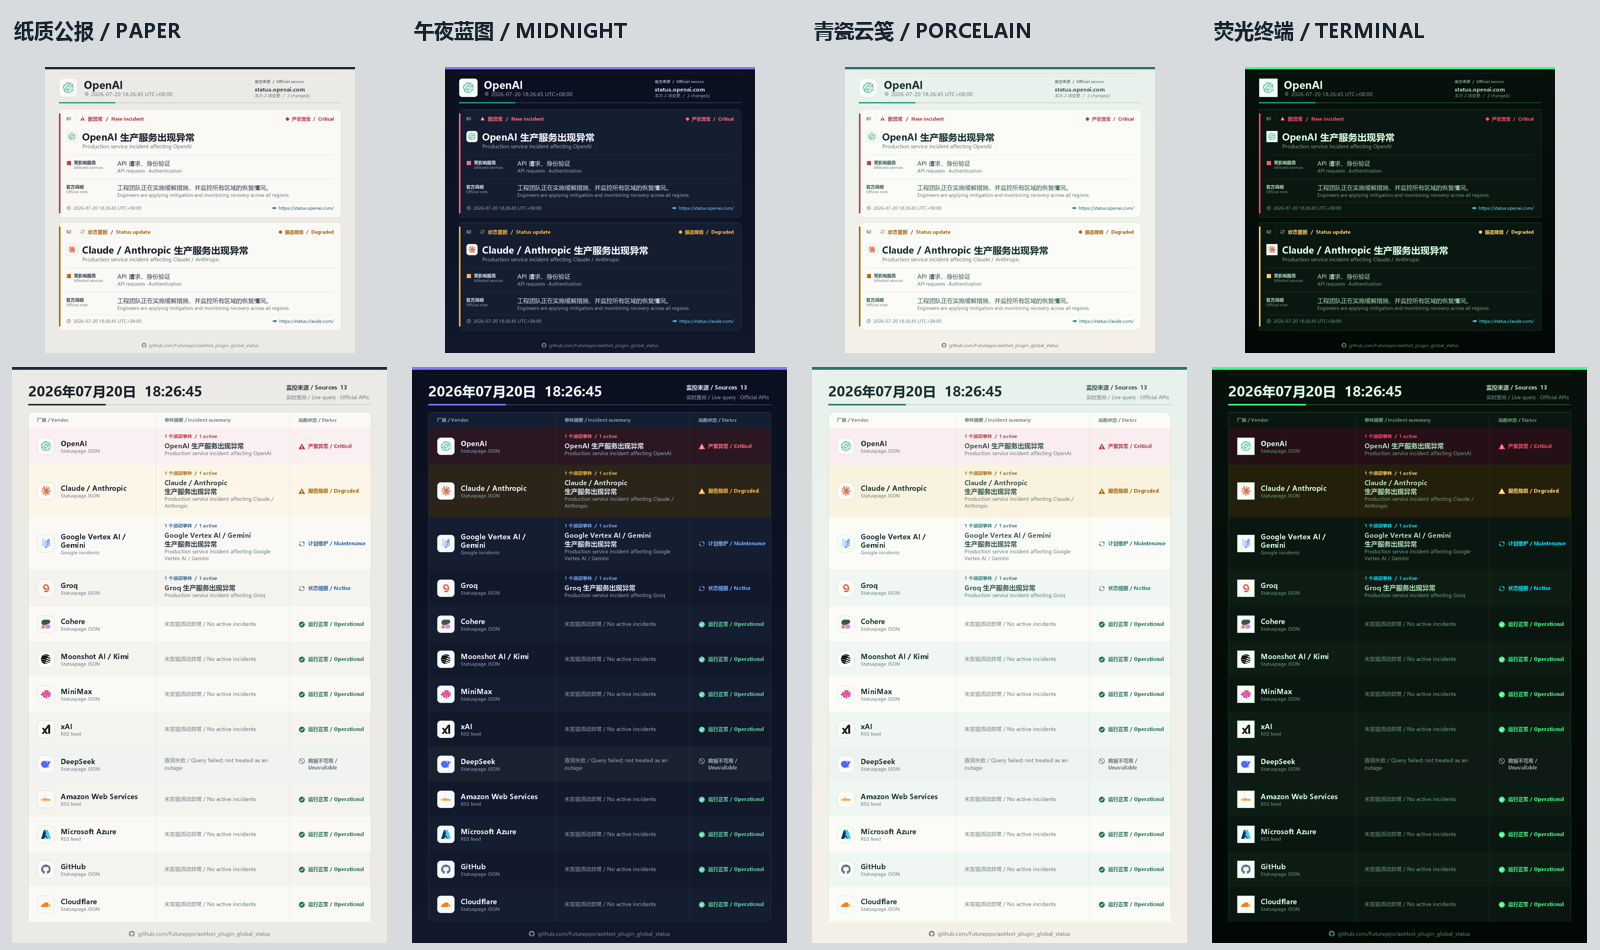
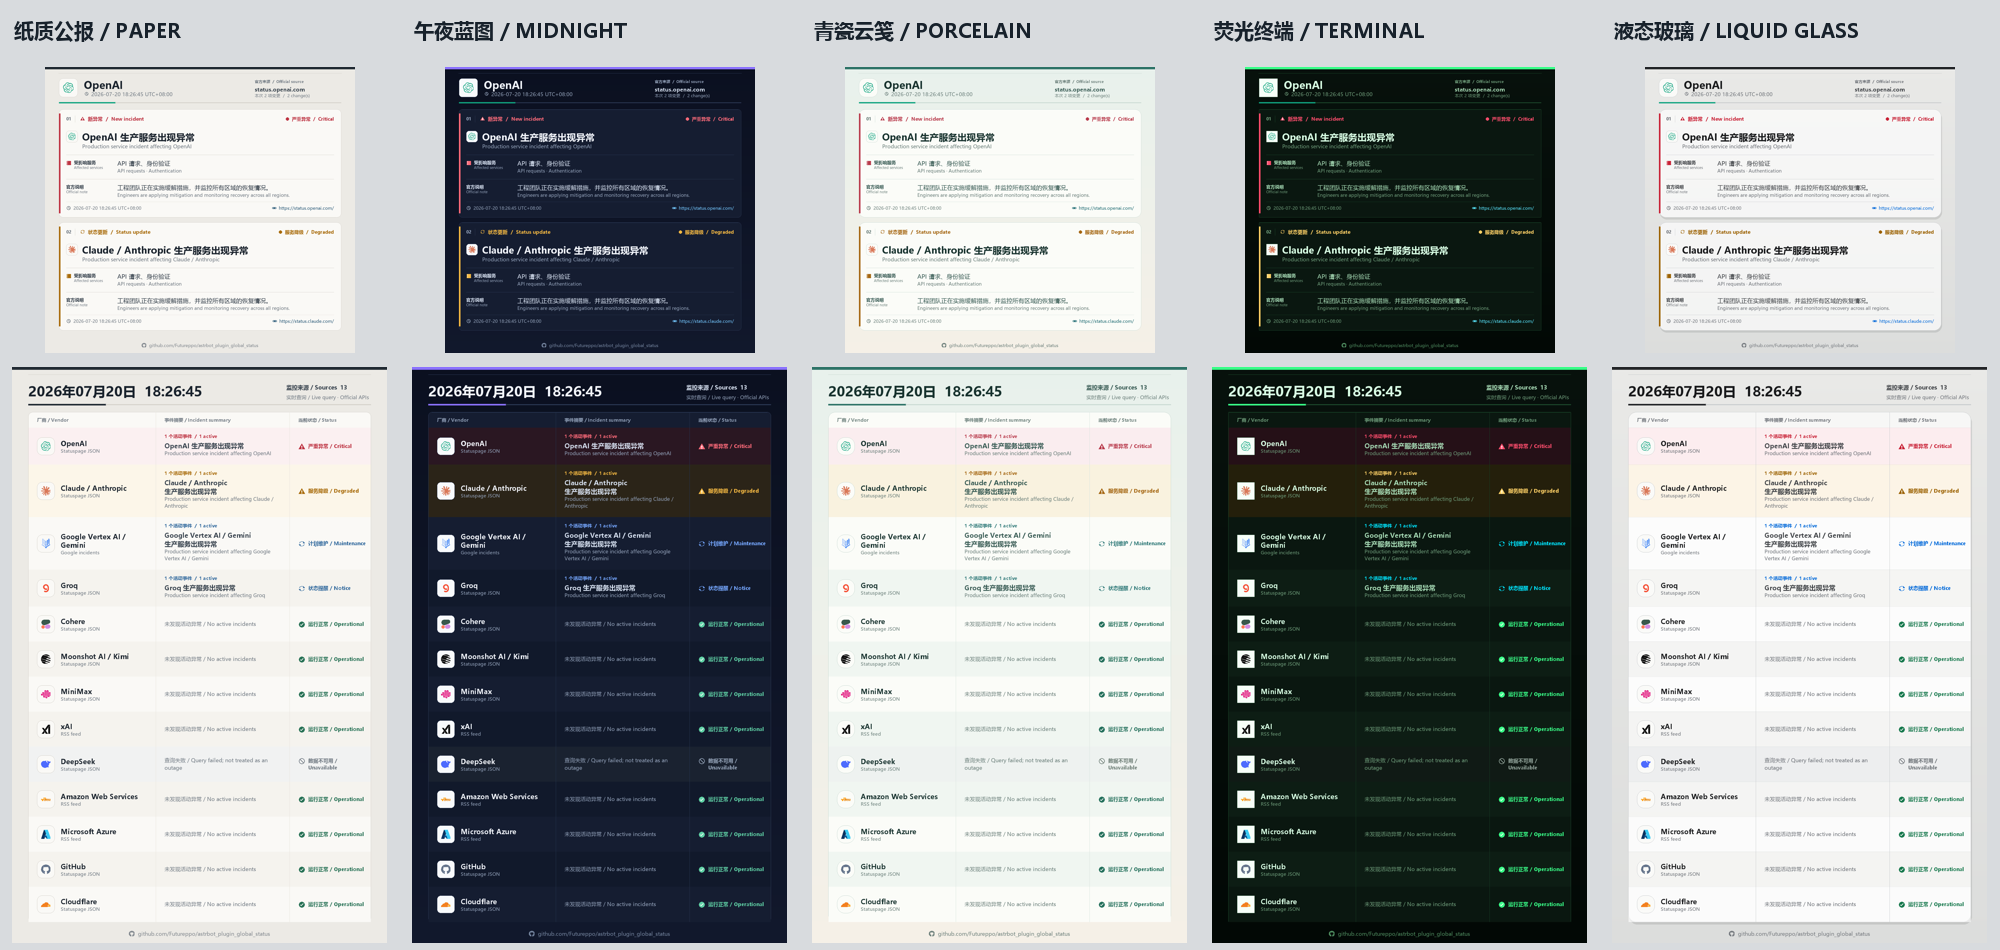
feat: 添加液态玻璃主题，更新主题对比和配置

diff --git a/renderer.py b/renderer.py
@@ -50,6 +50,7 @@ class CardTheme:
     panel_radius: int
     badge_radius: int
     table_radius: int
+    liquid_glass: bool = False
 
 
 CARD_THEMES: dict[str, CardTheme] = {
@@ -172,6 +173,37 @@ CARD_THEMES: dict[str, CardTheme] = {
         panel_radius=2,
         badge_radius=2,
         table_radius=2,
+    ),
+    "liquid_glass": CardTheme(
+        background_top="#E9E9E7",
+        background_bottom="#DCDDDC",
+        surface="#FFFFFFA6",
+        surface_alt="#F4F4F28C",
+        icon_surface="#FAFAF8",
+        text="#18191B",
+        text_soft="#3F4246",
+        muted="#70747A",
+        border="#C8CBCD",
+        panel_highlight="#FFFFFF",
+        chrome="#242629",
+        divider="#C9CCCE",
+        link="#0068D9",
+        footer="#777B80",
+        critical_surface="#FFE8EBA6",
+        warning_surface="#FFF3DDA6",
+        unavailable_surface="#E9EBECA6",
+        severity_colors={
+            "critical": "#C82035",
+            "warning": "#9B6100",
+            "maintenance": "#0068D9",
+            "info": "#0068D9",
+            "operational": "#18794E",
+            "unavailable": "#6F7479",
+        },
+        panel_radius=28,
+        badge_radius=22,
+        table_radius=26,
+        liquid_glass=True,
     ),
 }
 
@@ -849,6 +881,27 @@ def _new_canvas(height: int, theme: CardTheme) -> Image.Image:
     return image
 
 
+def _fill_rectangle(
+    image: Image.Image,
+    bounds: tuple[int, int, int, int],
+    fill: str,
+) -> None:
+    """Draw an opaque or alpha-composited rectangle onto an RGBA image.
+
+    Args:
+        image: Target RGBA image.
+        bounds: Rectangle coordinates in ``(left, top, right, bottom)`` order.
+        fill: Pillow-compatible color string, optionally including alpha.
+    """
+    color = ImageColor.getcolor(fill, "RGBA")
+    if color[3] == 255:
+        ImageDraw.Draw(image).rectangle(bounds, fill=color)
+        return
+    overlay = Image.new("RGBA", image.size, (0, 0, 0, 0))
+    ImageDraw.Draw(overlay).rectangle(bounds, fill=color)
+    image.alpha_composite(overlay)
+
+
 def _draw_panel(
     image: Image.Image,
     bounds: tuple[int, int, int, int],
@@ -857,15 +910,35 @@ def _draw_panel(
     radius: int | None = None,
 ) -> None:
     x1, y1, x2, y2 = bounds
-    draw = ImageDraw.Draw(image)
     panel_radius = theme.panel_radius if radius is None else radius
-    draw.rounded_rectangle(
-        bounds,
-        radius=panel_radius,
-        fill=fill or theme.surface,
-        outline=theme.border,
-        width=1,
-    )
+    panel_fill = fill or theme.surface
+    fill_color = ImageColor.getcolor(panel_fill, "RGBA")
+    if fill_color[3] < 255:
+        overlay = Image.new("RGBA", image.size, (0, 0, 0, 0))
+        overlay_draw = ImageDraw.Draw(overlay)
+        if theme.liquid_glass:
+            overlay_draw.rounded_rectangle(
+                (x1 + 3, y1 + 8, x2 + 3, y2 + 8),
+                radius=panel_radius,
+                fill=(16, 18, 20, 28),
+            )
+        overlay_draw.rounded_rectangle(
+            bounds,
+            radius=panel_radius,
+            fill=fill_color,
+            outline=ImageColor.getcolor(theme.border, "RGBA"),
+            width=1,
+        )
+        image.alpha_composite(overlay)
+    else:
+        ImageDraw.Draw(image).rounded_rectangle(
+            bounds,
+            radius=panel_radius,
+            fill=fill_color,
+            outline=theme.border,
+            width=1,
+        )
+    draw = ImageDraw.Draw(image)
     draw.line(
         (x1 + panel_radius, y1 + 1, x2 - panel_radius, y1 + 1),
         fill=theme.panel_highlight,
@@ -1141,8 +1214,9 @@ def render_alert_card(
     if language == "bilingual":
         count_label = f"本次 {len(events)} 项变更  /  {len(events)} change(s)"
     draw.text((812, 100), count_label, font=_font(16), fill=theme.muted)
-    draw.rectangle((54, 136, 272, 140), fill=vendor_color)
-    draw.rectangle((272, 137, WIDTH - 54, 139), fill=theme.border)
+    _fill_rectangle(image, (54, 136, 272, 140), vendor_color)
+    _fill_rectangle(image, (272, 137, WIDTH - 54, 139), theme.border)
+    draw = ImageDraw.Draw(image)
 
     y = 164
     for event_index, layout in enumerate(layouts, start=1):
@@ -1154,7 +1228,8 @@ def render_alert_card(
         accent = theme.severity_colors.get(severity, theme.severity_colors["warning"])
         _draw_panel(image, (54, y, WIDTH - 54, y + block_height), theme)
         draw = ImageDraw.Draw(image)
-        draw.rectangle((54, y + 16, 59, y + block_height - 16), fill=accent)
+        _fill_rectangle(image, (54, y + 16, 59, y + block_height - 16), accent)
+        draw = ImageDraw.Draw(image)
         draw.text(
             (82, y + 25),
             f"{event_index:02d}",
@@ -1412,8 +1487,9 @@ def render_overview(
         "bilingual": "实时查询 / Live query · Official APIs",
     }[language]
     draw.text((878, 86), live_text, font=_font(16), fill=theme.muted)
-    draw.rectangle((52, 118, 300, 122), fill=theme.chrome)
-    draw.rectangle((300, 119, WIDTH - 52, 121), fill=theme.border)
+    _fill_rectangle(image, (52, 118, 300, 122), theme.chrome)
+    _fill_rectangle(image, (300, 119, WIDTH - 52, 121), theme.border)
+    draw = ImageDraw.Draw(image)
 
     table_y = 144
     _draw_panel(
@@ -1472,7 +1548,12 @@ def render_overview(
         row_height = int(row["height"])
         draw = ImageDraw.Draw(image)
         if result is None:
-            draw.rectangle((53, y, WIDTH - 53, y + row_height), fill=theme.surface_alt)
+            _fill_rectangle(
+                image,
+                (53, y, WIDTH - 53, y + row_height),
+                theme.surface_alt,
+            )
+            draw = ImageDraw.Draw(image)
             _paste_icon(image, "unavailable", (82, y + 29), 38, theme.muted)
             empty_text = (
                 "没有启用任何状态来源"
@@ -1494,7 +1575,8 @@ def render_overview(
             row_fill = theme.warning_surface
         elif not result.success:
             row_fill = theme.unavailable_surface
-        draw.rectangle((53, y, WIDTH - 53, y + row_height), fill=row_fill)
+        _fill_rectangle(image, (53, y, WIDTH - 53, y + row_height), row_fill)
+        draw = ImageDraw.Draw(image)
         row_center = y + row_height // 2
         vendor_color = VENDOR_COLORS.get(result.spec.source_id, "#386A8A")
         draw.rounded_rectangle(

diff --git a/tests/test_renderer.py b/tests/test_renderer.py
@@ -35,7 +35,8 @@ def test_render_alert_card_returns_valid_dynamic_png():
         severity="critical",
         title="Elevated errors affecting API requests",
         affected_services=("API", "ChatGPT", "Responses"),
-        detail="We are investigating elevated error rates affecting a subset of requests. " * 8,
+        detail="We are investigating elevated error rates affecting a subset of requests. "
+        * 8,
         updated_at="2026-07-20T01:00:00Z",
         status_url="https://status.openai.com/",
     )
@@ -132,9 +133,7 @@ def test_all_card_themes_render_alerts_and_overviews():
                 )
             )
         )
-        overview = Image.open(
-            BytesIO(render_overview([result], card_theme=theme_name))
-        )
+        overview = Image.open(BytesIO(render_overview([result], card_theme=theme_name)))
 
         assert alert.format == "PNG"
         assert overview.format == "PNG"
@@ -161,9 +160,7 @@ def test_bilingual_alert_preserves_english_and_localizes_fallback():
     }
 
     for language in ("zh-CN", "en-US", "bilingual"):
-        data = render_alert_card(
-            "OpenAI", [("update", issue)], translations, language
-        )
+        data = render_alert_card("OpenAI", [("update", issue)], translations, language)
         image = Image.open(BytesIO(data))
         assert image.format == "PNG"
         assert image.width == 1200
@@ -177,8 +174,7 @@ def test_bilingual_alert_preserves_english_and_localizes_fallback():
 
 def test_long_custom_vendor_name_is_bounded_in_alert_header():
     source_name = (
-        "A Very Long Custom Statuspage Vendor Name / "
-        "超长自定义厂商名称用于边界压力测试"
+        "A Very Long Custom Statuspage Vendor Name / 超长自定义厂商名称用于边界压力测试"
     )
     source_name_lines = _wrap_text(source_name, _font(40, True), 610, 1)
     issue = Issue(
@@ -247,14 +243,7 @@ def test_render_overview_includes_operational_and_unavailable_rows():
     assert image.size[0] == 1200
     assert image.size[1] >= 400
     assert (
-        _format_overview_date(generated_at, "bilingual")
-        == "2026年07月20日  13:00:00"
+        _format_overview_date(generated_at, "bilingual") == "2026年07月20日  13:00:00"
     )
-    assert (
-        _format_overview_date(generated_at, "zh-CN")
-        == "2026年07月20日  13:00:00"
-    )
-    assert (
-        _format_overview_date(generated_at, "en-US")
-        == "JULY 20, 2026  13:00:00"
-    )
+    assert _format_overview_date(generated_at, "zh-CN") == "2026年07月20日  13:00:00"
+    assert _format_overview_date(generated_at, "en-US") == "JULY 20, 2026  13:00:00"

diff --git a/tests/test_sources.py b/tests/test_sources.py
@@ -36,7 +36,12 @@ def test_parse_statuspage_deduplicates_incident_components_and_filters_maintenan
             {"id": "api", "name": "API", "status": "major_outage"},
             {"id": "web", "name": "Web", "status": "degraded_performance"},
             {"id": "maint", "name": "Region A", "status": "under_maintenance"},
-            {"id": "group", "name": "Products", "status": "partial_outage", "group": True},
+            {
+                "id": "group",
+                "name": "Products",
+                "status": "partial_outage",
+                "group": True,
+            },
         ],
     }
     incidents = {
@@ -167,8 +172,16 @@ def test_build_source_specs_validates_and_deduplicates_custom_sources():
     specs = build_source_specs(
         {"openai": True, "claude": False},
         [
-            {"name": "Custom", "base_url": "https://status.custom.test", "enabled": True},
-            {"name": "Duplicate", "base_url": "https://status.openai.com", "enabled": True},
+            {
+                "name": "Custom",
+                "base_url": "https://status.custom.test",
+                "enabled": True,
+            },
+            {
+                "name": "Duplicate",
+                "base_url": "https://status.openai.com",
+                "enabled": True,
+            },
             {"name": "Invalid", "base_url": "not-a-url", "enabled": True},
         ],
     )

diff --git a/tests/test_main.py b/tests/test_main.py
@@ -103,9 +103,7 @@ def test_image_timezone_override_and_astrbot_default():
 
     plugin.config["timezone"] = "America/New_York"
     assert plugin._display_timezone_name() == "America/New_York"
-    assert getattr(plugin._display_datetime().tzinfo, "key", "") == (
-        "America/New_York"
-    )
+    assert getattr(plugin._display_datetime().tzinfo, "key", "") == ("America/New_York")
 
 
 def test_reconcile_initial_update_dedup_and_recovery():
@@ -324,9 +322,7 @@ async def test_first_startup_can_baseline_existing_incidents_without_sending(
 
 @pytest.mark.asyncio
 async def test_empty_whitelist_updates_state_without_sending(monkeypatch):
-    plugin = _plugin(
-        {"enabled": True, "group_whitelist": [], "platform_id": ""}
-    )
+    plugin = _plugin({"enabled": True, "group_whitelist": [], "platform_id": ""})
     issue = _issue()
 
     async def fetch_sources():

diff --git a/README.md b/README.md
@@ -6,9 +6,9 @@
 
 以下图片使用演示数据生成，仅用于展示排版和主题效果，不代表厂商真实服务状态。
 
-### 四种主题对比
+### 五种主题对比
 
-[![纸质公报、午夜蓝图、青瓷云笺和荧光终端主题对比](assets/screenshots/themes-comparison.png)](assets/screenshots/themes-comparison.png)
+[![纸质公报、午夜蓝图、青瓷云笺、荧光终端和液态玻璃主题对比](assets/screenshots/themes-comparison.png)](assets/screenshots/themes-comparison.png)
 
 ### 双语异常告警卡
 
@@ -38,7 +38,7 @@ OpenAI、Claude、Groq、Cohere、Moonshot AI、MiniMax、DeepSeek、GitHub 和 
 5. `notify_maintenance`：默认关闭，计划维护不会被当作服务故障。
 6. `notify_existing_on_first_startup`：控制首次成功查询时是否推送厂商已有异常，默认开启。关闭时只建立状态基线，之后的更新和恢复仍会通知。
 7. `display_language`：支持 `中英双语`、`简体中文` 和 `English`，默认中英双语。
-8. `card_theme`：选择告警卡与总览图主题，提供 `纸质公报`、`午夜蓝图`、`青瓷云笺`、`荧光终端` 四种样式，默认使用纸质公报。
+8. `card_theme`：选择告警卡与总览图主题，提供 `纸质公报`、`午夜蓝图`、`青瓷云笺`、`荧光终端`、`液态玻璃` 五种样式，默认使用纸质公报。
 9. `timezone`：控制总览图及告警卡内所有时间所使用的时区，统一精确到秒并显示 UTC 偏移。默认留空并跟随 AstrBot 全局“时区”设置；也可填写 `Asia/Shanghai` 等 IANA 时区名称单独覆盖。
 10. `enable_ai_translation`：默认开启，调用 AstrBot 默认对话模型把官方英文事件翻译为简体中文。
 11. `translation_provider_id`：通常留空；留空时使用默认对话模型，也可以为翻译单独选择模型。
@@ -49,6 +49,7 @@ OpenAI、Claude、Groq、Cohere、Moonshot AI、MiniMax、DeepSeek、GitHub 和 
 - `午夜蓝图`：深海蓝黑底色、紫色结构线与柔和的高亮文字。
 - `青瓷云笺`：浅青瓷底色、更圆润的卡片轮廓与低饱和绿色层次。
 - `荧光终端`：近黑终端底色、直角结构与高对比荧光状态色。
+- `液态玻璃`：仿照 iOS 的中性浅灰背景、半透明白色磨砂层、细高光边和柔和阴影，不使用蓝紫渐变。
 
 插件使用 AstrBot 的全局 `http_proxy` 环境配置访问状态页，无需重复配置代理。
 
